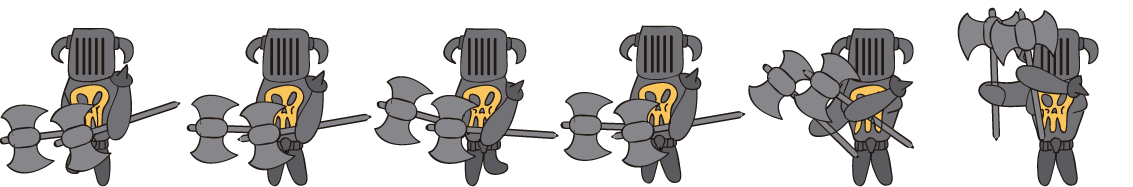
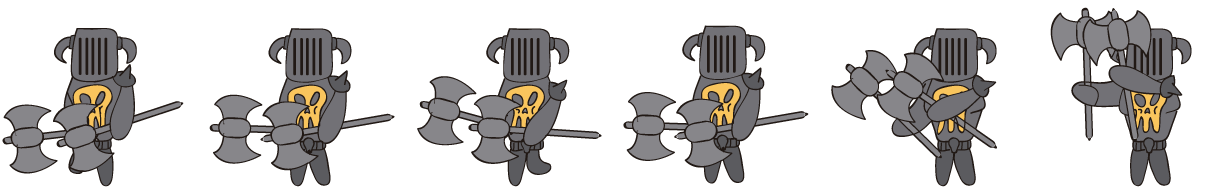
-Final Merge

Changed region(s): [[0.0, 0.0267, 0.9885, 1.0]]

diff --git a/npm/src/groups/base_piedraGP.js b/npm/src/groups/base_piedraGP.js
@@ -19,18 +19,18 @@ export default class extends Phaser.Group {
 
     this.units = {aliens: [], vikings: []};
 
-    this.KeyA = this.game.input.keyboard.addKey(Phaser.Keyboard.A);
-    this.KeyS = this.game.input.keyboard.addKey(Phaser.Keyboard.S);
-    this.KeyD = this.game.input.keyboard.addKey(Phaser.Keyboard.D);
-    this.KeyJ = this.game.input.keyboard.addKey(Phaser.Keyboard.J);
-    this.KeyK = this.game.input.keyboard.addKey(Phaser.Keyboard.K);
-    this.KeyL = this.game.input.keyboard.addKey(Phaser.Keyboard.L);
-    this.KeyA.onDown.add(()=>{this.spawnUnit('pollo');});
-    this.KeyS.onDown.add(()=>{this.spawnUnit('slime');});
-    this.KeyD.onDown.add(()=>{this.spawnUnit('gusano');});
-    this.KeyJ.onDown.add(()=>{this.spawnUnit('vikingo1');});
-    this.KeyK.onDown.add(()=>{this.spawnUnit('vikingo2');});
-    this.KeyL.onDown.add(()=>{this.spawnUnit('vikingo3');});
+    this.KeyQ = this.game.input.keyboard.addKey(Phaser.Keyboard.Q);
+    this.KeyW = this.game.input.keyboard.addKey(Phaser.Keyboard.W);
+    this.KeyE = this.game.input.keyboard.addKey(Phaser.Keyboard.E);
+    this.KeyI = this.game.input.keyboard.addKey(Phaser.Keyboard.I);
+    this.KeyO = this.game.input.keyboard.addKey(Phaser.Keyboard.O);
+    this.KeyP = this.game.input.keyboard.addKey(Phaser.Keyboard.P);
+    this.KeyQ.onDown.add(()=>{this.spawnUnit('pollo');});
+    this.KeyW.onDown.add(()=>{this.spawnUnit('slime');});
+    this.KeyE.onDown.add(()=>{this.spawnUnit('gusano');});
+    this.KeyI.onDown.add(()=>{this.spawnUnit('vikingo1');});
+    this.KeyO.onDown.add(()=>{this.spawnUnit('vikingo2');});
+    this.KeyP.onDown.add(()=>{this.spawnUnit('vikingo3');});
 
     console.log(this._state);
     this.init();
@@ -49,7 +49,7 @@ export default class extends Phaser.Group {
     // this.game.add.tween(this).to({ angle: '+60'}, 10000, Phaser.Easing.Sinusoidal.InOut, true, 0, -1, true);
     // console.log(this.exists);
 
-    this.game.time.events.loop(500, this.setBalance, this);    
+    this.loop = this.game.time.events.loop(500, this.setBalance, this);    
   }
 
   spawnUnit(asset)
@@ -93,16 +93,18 @@ export default class extends Phaser.Group {
 
     this.balance = this.rightWeight - this.leftWeight;
     // console.log(this.balance);
-    this.game.add.tween(this).to({ angle: this.balance}, 1000, Phaser.Easing.Sinusoidal.InOut, true, 0, -1, true);
-    if(this.balance > 40)
-      this.stoneFall();
+    this.balancetween = this.game.add.tween(this).to({ angle: this.balance}, 1000, Phaser.Easing.Sinusoidal.InOut, true, 0, -1, true);
+    if(this.angle > 40)
+      this.stoneFall(true);
+    else if(this.angle < -40)
+      this.stoneFall(false);
   }
 
 
-  stoneFall ()
+  stoneFall (positive)
   {
-    // let x = ;
-    // let y = ;
-    // this.game.add.tween(this).to({ x: this.balance, }, 1000, Phaser.Easing.Sinusoidal.InOut, true, 0, -1, true);
+    this.balancetween.stop();
+    game.time.events.remove(this.loop);
+    this.game.add.tween(this).to({ y: this.game.world.height *2}, 1000, Phaser.Easing.Quadratic.In, true);
   }
 }

diff --git a/npm/src/sprites/unitSP.js b/npm/src/sprites/unitSP.js
@@ -8,17 +8,17 @@ export default class extends Phaser.Group {
     
     // UNIT INFO OBJECT
     this.OBJ_UNIT_INFO = {
-      pollo:    {faction: 'aliens', dmg: 1, hp: 20, aWalk: [0,1], aAttack: [1,2,3]},
-      gusano:   {faction: 'aliens', dmg: 2, hp: 40, aWalk: [0,1], aAttack: [0,0]},
-      slime:    {faction: 'aliens', dmg: 1, hp: 30, aWalk: [0,1,2,3], aAttack: [3,4,5]},
-      vikingo1: {faction: 'vikings', dmg: 1, hp: 20, aWalk: [0,1,2,3], aAttack: [3,4,5]},
-      vikingo2: {faction: 'vikings', dmg: 2, hp: 40, aWalk: [0,1,2,3], aAttack: [3,4,5]},
-      vikingo3: {faction: 'vikings', dmg: 1, hp: 30, aWalk: [0,1,2,3], aAttack: [3,4,5]},
-      
+      pollo:    {faction: 'aliens', speed: 6, dmg: 1, hp: 20, aWalk: [0,1], aAttack: [1,2,3]},
+      slime:    {faction: 'aliens', speed: 4, dmg: 1, hp: 40, aWalk: [0,1,2,3], aAttack: [3,4,5]},
+      gusano:   {faction: 'aliens', speed: 2, dmg: 2, hp: 30, aWalk: [0,1], aAttack: [0,1,2]},
+      vikingo1: {faction: 'vikings', speed: 6, dmg: 1, hp: 20, aWalk: [0,1,2,3], aAttack: [3,4,5]},
+      vikingo2: {faction: 'vikings', speed: 4, dmg: 2, hp: 40, aWalk: [0,1,2,3], aAttack: [3,4,5]},
+      vikingo3: {faction: 'vikings', speed: 2, dmg: 1, hp: 30, aWalk: [0,1,2,3], aAttack: [3,4,5]},
     };
     
     this.type = this.OBJ_UNIT_INFO[asset];
     this.faction = this.type.faction;
+    this.speed = this.type.speed;
     this.arr_unit = parent.units;
 
     this.UID = ++parent.UnitCounter;    
@@ -61,7 +61,7 @@ export default class extends Phaser.Group {
   this.unit = game.add.sprite(0, 0, asset);
   
   this.unit.anchor.set(0.5, 1);
-  this.collision = this.unit.width*0.6;
+  this.collision = 50;//this.unit.width*0.6;
   // console.log(this, this.collision);
   this.x += this.collision * this.sign;
   this.ani_ataque = this.unit.animations.add('ataque', aAttack);
@@ -108,7 +108,7 @@ export default class extends Phaser.Group {
    let target = this.checkEnemyDistances(this.enemies);
    if(!target)
    {
-    this.x += 3 * this.sign;    
+    this.x += this.speed * this.sign;    
    }
    else
    {
@@ -144,4 +144,9 @@ export default class extends Phaser.Group {
  {
     return this.realWeight * Math.abs(this.x/531);
  }
+
+//  stop()
+//  {
+//   this.speed = 0;
+//  }
 }

diff --git a/npm/src/states/Splash.js b/npm/src/states/Splash.js
@@ -26,9 +26,9 @@ export default class extends Phaser.State {
     this.load.image('empuji', 'assets/placeholders/empuje_izq.png');    
     this.load.spritesheet('pollo', 'assets/placeholders/pollo.png', 350/4, 107, 4);
     this.load.spritesheet('slime', 'assets/placeholders/slime.png', 875/6, 221, 6);
-    this.load.spritesheet('gusano', 'assets/placeholders/gusano.png', 480/2, 212, 2);
+    this.load.spritesheet('gusano', 'assets/placeholders/gusano.png', 962/4, 212, 4);
     this.load.spritesheet('vikingo1', 'assets/placeholders/vikingo-01.png', 730/6, 115, 6);
-    this.load.spritesheet('vikingo2', 'assets/placeholders/vikingo-02.png', 1133/6, 187, 6);
+    this.load.spritesheet('vikingo2', 'assets/placeholders/vikingo-02.png', 1226/6, 187, 6);
     this.load.spritesheet('vikingo3', 'assets/placeholders/vikingo-03.png', 1128/6, 207, 6);
 
     // this.load.image('mushroom', 'assets/images/mushroom2.png');
